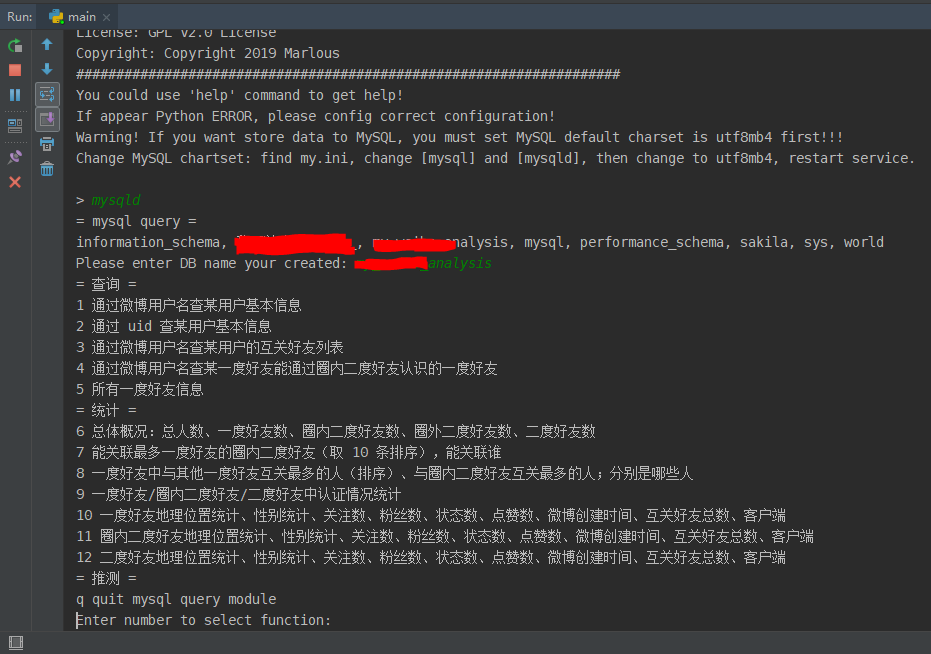
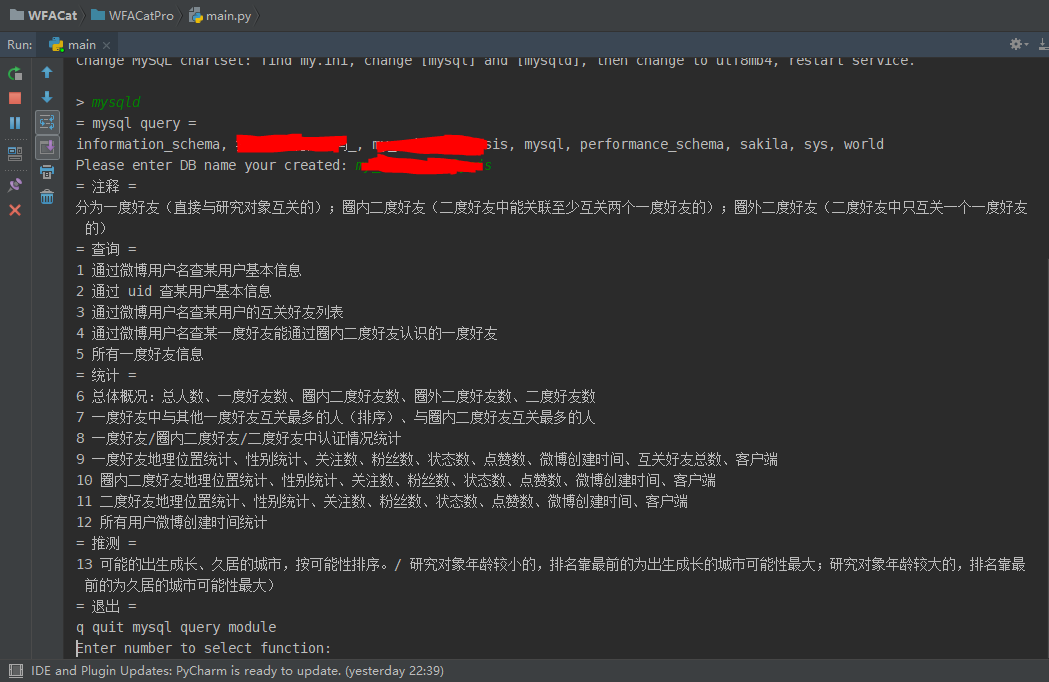
添加：所有用户微博创建时间统计

Changed region(s): [[0.0, 0.0, 1.0, 1.0], [0.8099, 0.2752, 0.9656, 0.3364], [0.9345, 0.2141, 0.9656, 0.2446]]

diff --git a/WFACatPro/modules/mysql_query.py b/WFACatPro/modules/mysql_query.py
@@ -655,6 +655,31 @@ def statistic_three_level():
         print('ERROR! Unable to fetch data')
         traceback.print_exc()
 
+
+# 所有用户微博创建时间统计
+def statistic_created():
+    try:
+        cur.execute("SELECT created_at FROM %s.peopleinfo" % (DB_NAME_QUERY))
+        result = cur.fetchall()
+
+        created_at_dict = {}
+
+        for row in result:
+            if str(row[0])[26:] in created_at_dict.keys():
+                created_at_dict[str(row[0])[26:]] = created_at_dict[str(row[0])[26:]] + 1
+            else:
+                created_at_dict[str(row[0])[26:]] = 1
+
+        created_at_sorted_list = sorted(created_at_dict, key=created_at_dict.get, reverse=True)
+
+        for item in created_at_sorted_list:
+            print("创建时间：%s 数量：%d" % (str(item), created_at_dict[item]))
+
+    except Exception:
+        print('ERROR! Unable to fetch data')
+        traceback.print_exc()
+
+
 """
 推测
 """
@@ -728,8 +753,9 @@ if __name__ == '__main__':
     print('9 一度好友地理位置统计、性别统计、关注数、粉丝数、状态数、点赞数、微博创建时间、互关好友总数、客户端')
     print('10 圈内二度好友地理位置统计、性别统计、关注数、粉丝数、状态数、点赞数、微博创建时间、客户端')
     print('11 二度好友地理位置统计、性别统计、关注数、粉丝数、状态数、点赞数、微博创建时间、客户端')
+    print('12 所有用户微博创建时间统计')
     print('= 推测 =')
-    print('12 可能的出生成长、久居的城市，按可能性排序。/ '
+    print('13 可能的出生成长、久居的城市，按可能性排序。/ '
           '研究对象年龄较小的，排名靠最前的为出生成长的城市可能性最大；'
           '研究对象年龄较大的，排名靠最前的为久居的城市可能性最大）')
     print('= 退出 =')
@@ -774,6 +800,9 @@ if __name__ == '__main__':
             statistic_three_level()
 
         if value == '12':
+            statistic_created()
+
+        if value == '13':
             location_probably()
 
         if value == 'q':
